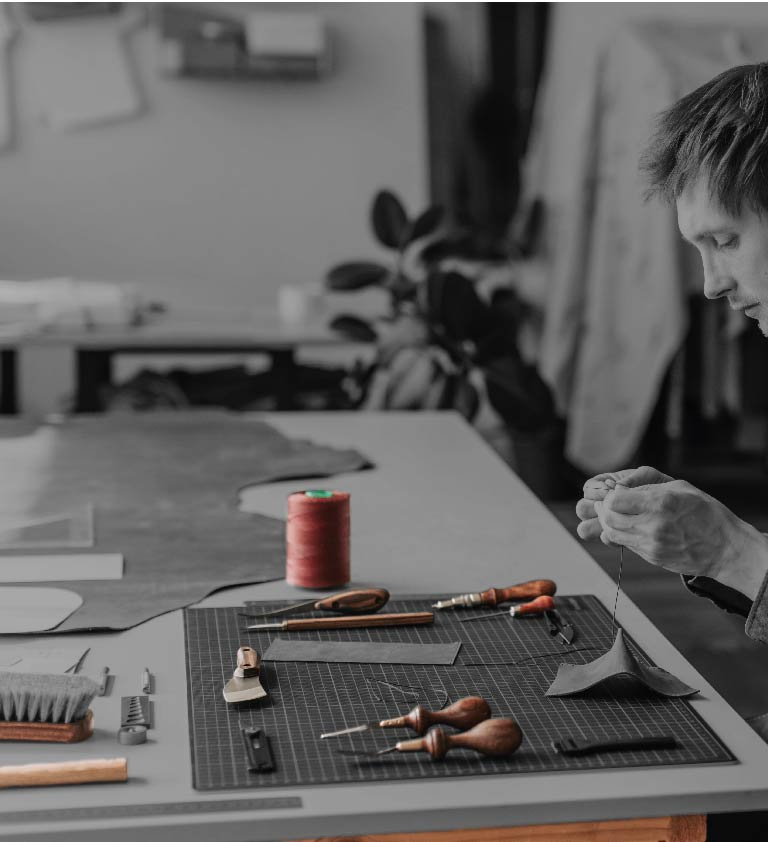
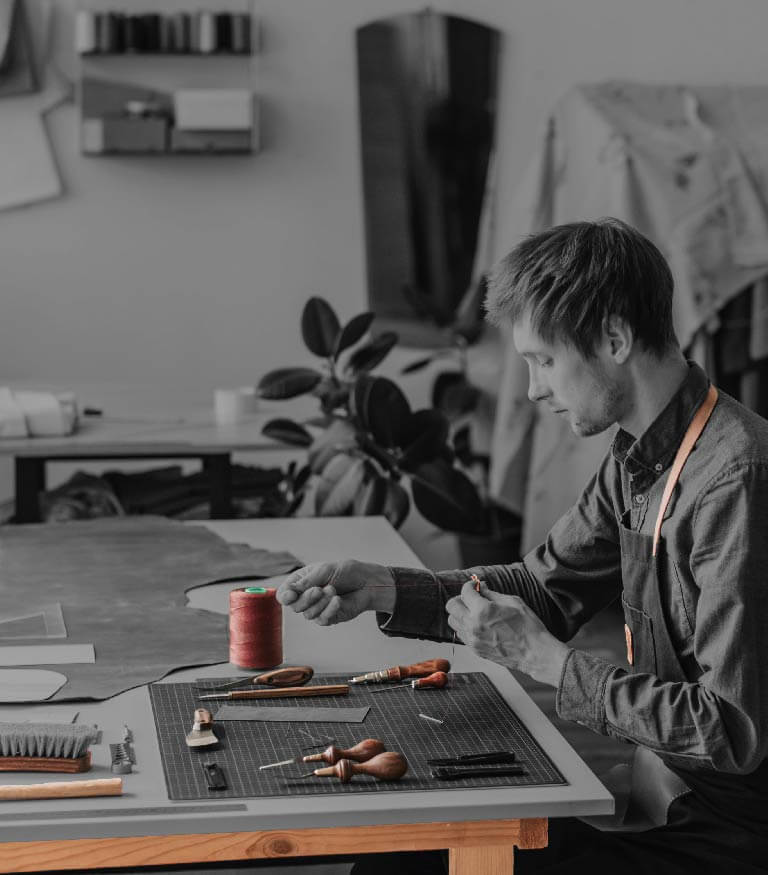
modif image cover-mobile

diff --git a/index.html b/index.html
@@ -89,9 +89,9 @@
                     <p>
                         Le titre de maître artisan en métier d'art est attribué par le président de la chambre 
                         de métiers et de l'artisanat (CMA) <br>
-                        Ce titre peut également être attribué sans être titulaire du brevet de maîtrise il faut :<br><br>
-                        - soit justifie d'un diplôme de niveau équivalent au Brevet de Maîtrise<br>
-                        - soit est immatriculé au répertoire des métiers depuis au moins 10 ans.
+                        Ce titre peut également être attribué sans être titulaire du brevet de maîtrise. Pour cela il faut :<br><br>
+                        - soit justifier d'un diplôme de niveau équivalent au Brevet de Maîtrise<br>
+                        - soit être immatriculé au répertoire des métiers depuis au moins 10 ans.
                     </p>
                  </div>
              </div>
@@ -158,8 +158,8 @@
 
     <!-- Start : Sixth section -->
     <section class="section-6__container">
-        <h2>Abonne-toi à notre liste</h2>
-        <p>Soit le premier informé de nos dernières actus</p>
+        <h2>Abonnez-vous à notre liste</h2>
+        <p>Soyez le premier informé de nos dernières actus</p>
         <form method="get" action="" class="section-6__container-form">
             <div class="section-6__box">
                 <input type="text" name="username" required>
@@ -190,7 +190,7 @@
             <a href="#">Politique de confidentialité</a>
             <a href="#">Mention légales</a>
         </div>
-        <p class="footer__made">© 2022 par Hatim, Developpeur Web Junior. Studi School</p>
+        <p class="footer__made">© 2022 par Hatim Mfarej, Developpeur Web Junior. Studi School</p>
     </footer> 
 
 </body>

diff --git a/la-boutique-des-créateurs.html b/la-boutique-des-créateurs.html
@@ -74,7 +74,7 @@
                     Nous sommes actuellement en pleine préparation à l’ouverture d’une boutique permanente.<br><br>
                     Pour que vous puissiez avoir accès facilement aux créations des artisans d’art et créateurs de la région, cette boutique rassemblera leurs plus belles créations. <br><br>
                     Vous y découvrirez des idées cadeaux, pour toutes les occasions. Vous y trouverez des prix accessibles à tous, il y en aura pour tous les styles et pour toutes les bourses.<br><br>
-                    Nous vous proposerons une offre produits variée qui se renouvellera régulièrement afin de vous proposer un large choix et toujours plus de nouveauté ! <br><br>
+                    Nous vous proposerons une offre produits variée qui se renouvellera régulièrement afin de vous proposer un large choix et toujours plus de nouveautés ! <br><br>
                     <span><strong>Ouverture le samedi 12 septembre 2020</strong></span> 
                 </p>
             </div>
@@ -148,7 +148,7 @@
         <a href="#">Politique de confidentialité</a>
         <a href="#">Mention légales</a>
     </div>
-    <p class="footer__made">© 2022 par Hatim, Developpeur Web Junior. Studi School</p>
+    <p class="footer__made">© 2022 par Hatim Mfarej, Developpeur Web Junior. Studi School</p>
 </footer> 
     
 </body>

diff --git a/actualités.html b/actualités.html
@@ -86,7 +86,7 @@
             <a href="#">Politique de confidentialité</a>
             <a href="#">Mention légales</a>
         </div>
-        <p class="footer__made">© 2022 par Hatim, Developpeur Web Junior. Studi School</p>
+        <p class="footer__made">© 2022 par Hatim Mfarej, Developpeur Web Junior. Studi School</p>
     </footer> 
 
 </body>

diff --git a/forum-des-activités.html b/forum-des-activités.html
@@ -142,7 +142,7 @@
         <a href="#">Politique de confidentialité</a>
         <a href="#">Mention légales</a>
     </div>
-    <p class="footer__made">© 2022 par Hatim, Developpeur Web Junior. Studi School</p>
+    <p class="footer__made">© 2022 par Hatim Mfarej, Developpeur Web Junior. Studi School</p>
 </footer> 
     
 </body>

diff --git a/css/style.css b/css/style.css
@@ -71,6 +71,7 @@ body {
   top: 5px;
   right: 35px;
   width: 80px;
+  
  }
 
 .navbar .menu-items {
@@ -232,7 +233,8 @@ body {
     justify-content: center;
     align-items: center;
     text-align: center; 
-    background-attachment: scroll;     
+    background-attachment: scroll;
+    background-size: cover;     
 }
   
   
